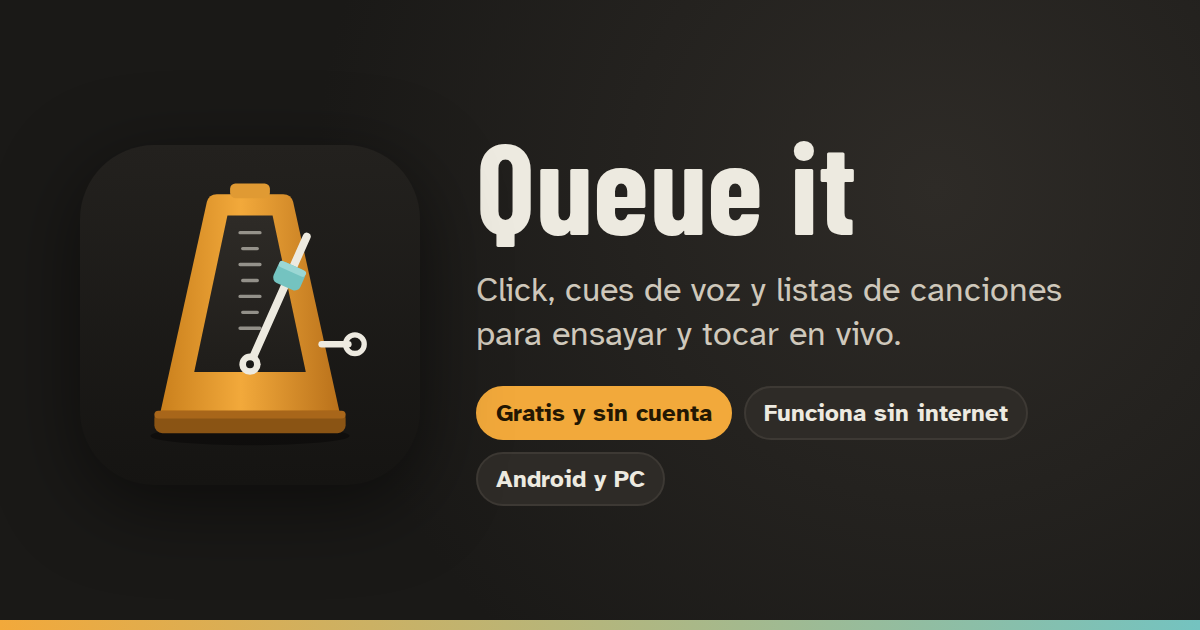
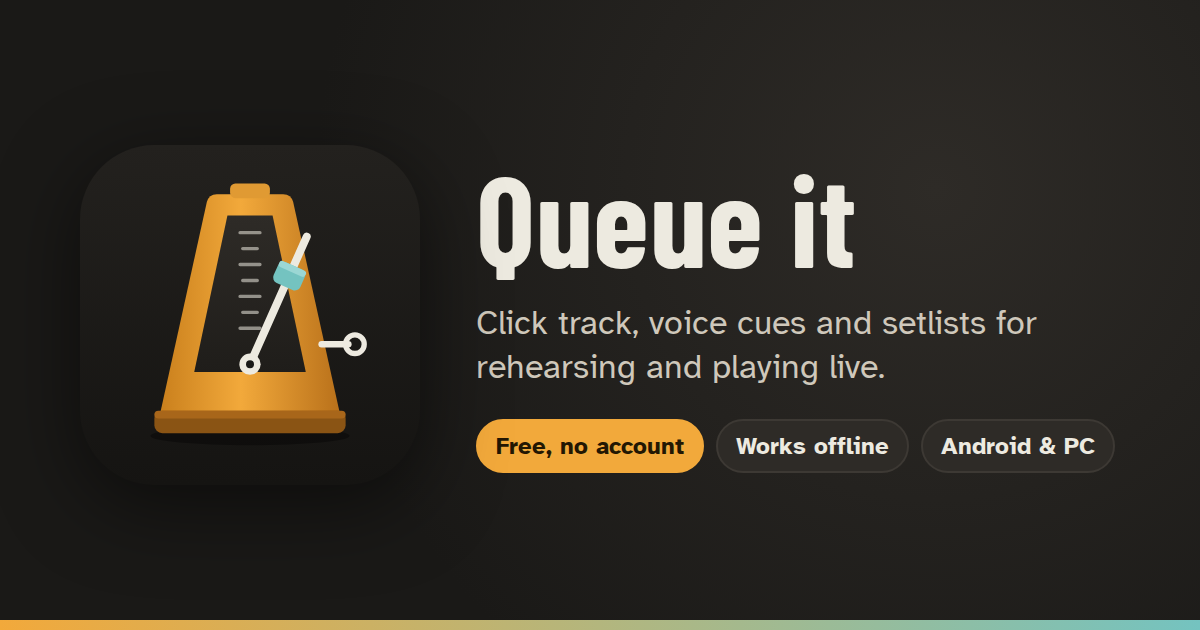
Inglés como idioma por defecto y vista previa en inglés
- La interfaz arranca en inglés salvo que el usuario haya elegido otro
  idioma (EN primero en el selector). Las pistas nuevas usan la voz del
  idioma de la interfaz.
- Etiquetas Open Graph/Twitter, imagen de vista previa, descripción,
  lang del HTML y manifiesto en inglés.

Claude-Session: https://claude.ai/code/session_01Whv9p1jsq9St3YmwNRCosG

Changed region(s): [[0.37, 0.2111, 0.925, 0.8143]]

diff --git a/index.html b/index.html
@@ -1,30 +1,32 @@
 <!doctype html>
-<html lang="es">
+<html lang="en">
   <head>
     <meta charset="UTF-8" />
     <meta name="viewport" content="width=device-width, initial-scale=1, viewport-fit=cover, interactive-widget=resizes-content" />
     <meta name="theme-color" content="#1a1917" />
     <meta name="color-scheme" content="dark" />
-    <meta name="description" content="Guías de click y cues de voz para músicos. Funciona sin internet." />
+    <meta name="description" content="Click track, voice cues and setlists for musicians. Works offline." />
     <link rel="icon" type="image/svg+xml" href="/favicon.svg" />
     <link rel="apple-touch-icon" href="/icons/icon-192.png" />
-    <title>Queue it · Click y cues de voz para músicos</title>
+    <title>Queue it · Click track and voice cues for musicians</title>
 
     <!-- Vista previa al compartir el link (WhatsApp, Discord, Telegram, X…).
          Las URL deben ser absolutas: si la página cambia de dirección, actualízalas. -->
     <meta property="og:type" content="website" />
     <meta property="og:site_name" content="Queue it" />
-    <meta property="og:title" content="Queue it · Click y cues de voz para músicos" />
-    <meta property="og:description" content="Click, cues de voz y listas de canciones para ensayar y tocar en vivo. Gratis, sin cuenta y sin internet." />
+    <meta property="og:title" content="Queue it · Click track and voice cues for musicians" />
+    <meta property="og:description" content="Click track, voice cues and setlists for rehearsing and playing live. Free, no account, works offline." />
     <meta property="og:url" content="https://martinhargous.github.io/Queue_it/" />
     <meta property="og:image" content="https://martinhargous.github.io/Queue_it/og-image.png" />
     <meta property="og:image:width" content="1200" />
     <meta property="og:image:height" content="630" />
-    <meta property="og:image:alt" content="Logo de Queue it, un metrónomo, junto al nombre de la app" />
-    <meta property="og:locale" content="es_LA" />
+    <meta property="og:image:alt" content="Queue it logo, a metronome, next to the app name" />
+    <meta property="og:locale" content="en_US" />
+    <meta property="og:locale:alternate" content="es_LA" />
+    <meta property="og:locale:alternate" content="pt_BR" />
     <meta name="twitter:card" content="summary_large_image" />
-    <meta name="twitter:title" content="Queue it · Click y cues de voz para músicos" />
-    <meta name="twitter:description" content="Click, cues de voz y listas de canciones para ensayar y tocar en vivo." />
+    <meta name="twitter:title" content="Queue it · Click track and voice cues for musicians" />
+    <meta name="twitter:description" content="Click track, voice cues and setlists for rehearsing and playing live." />
     <meta name="twitter:image" content="https://martinhargous.github.io/Queue_it/og-image.png" />
   </head>
   <body>

diff --git a/src/lib/model.js b/src/lib/model.js
@@ -1,6 +1,6 @@
 // Modelo de datos y cálculo de la línea de tiempo.
 // Todo aquí es puro (sin DOM ni Web Audio) para poder probarlo en Node.
-import { t } from './i18n.js'
+import { t, getLang } from './i18n.js'
 
 export const uid = () =>
   (globalThis.crypto?.randomUUID?.() ?? Math.random().toString(36).slice(2) + Date.now().toString(36))
@@ -19,6 +19,9 @@ export function newSection(prev, index = 0) {
   }
 }
 
+// Voz de las pistas nuevas según el idioma de la interfaz
+const DEFAULT_VOICE = { en: 'en/en-us', es: 'es-la', pt: 'pt' }
+
 export function newProject(kind) {
   const now = Date.now()
   return {
@@ -33,7 +36,7 @@ export function newProject(kind) {
     grid: null, // { mode: 'detected'|'fixed', bpm, offset, num, beats: number[], downbeat, nudge }
     cues: [],
     mix: { click: 0.8, track: 1, cues: 1, clickOnAudio: false },
-    tts: { voice: 'es-la', speed: 160, pitch: 45 },
+    tts: { voice: DEFAULT_VOICE[getLang()] ?? 'en/en-us', speed: 160, pitch: 45 },
   }
 }
 

diff --git a/src/lib/i18n.js b/src/lib/i18n.js
@@ -5,13 +5,16 @@ import en from './i18n/en.js'
 import pt from './i18n/pt.js'
 
 export const LANGS = [
-  ['es', 'Español'],
   ['en', 'English'],
+  ['es', 'Español'],
   ['pt', 'Português'],
 ]
 
 const DICTS = { es: {}, en, pt }
 const KEY = 'queueit.lang'
+
+// Inglés por defecto; se recuerda el idioma que elija el usuario en el selector
+export const DEFAULT_LANG = 'en'
 
 function initial() {
   try {
@@ -20,8 +23,7 @@ function initial() {
   } catch {
     /* sin almacenamiento */
   }
-  const nav = globalThis.navigator?.language?.slice(0, 2)
-  return DICTS[nav] ? nav : 'es'
+  return DEFAULT_LANG
 }
 
 let lang = initial()

diff --git a/vite.config.js b/vite.config.js
@@ -25,8 +25,8 @@ export default defineConfig({
       manifest: {
         name: 'Queue it',
         short_name: 'Queue it',
-        description: 'Guías de click y cues de voz para músicos. Funciona sin internet.',
-        lang: 'es',
+        description: 'Click track, voice cues and setlists for musicians. Works offline.',
+        lang: 'en',
         id: './',
         start_url: './',
         scope: './',

diff --git a/ARCHITECTURE.md b/ARCHITECTURE.md
@@ -190,7 +190,7 @@ A diferencia de Moises, no usa redes neuronales de separación de fuentes: con m
 
 ## Idioma de la interfaz
 
-Selector ES / EN / PT en la pantalla de inicio. Por defecto usa el idioma del teléfono y la elección se guarda en `localStorage`. `t('texto en español', vars)` busca la traducción y, si falta, muestra el español. Los componentes llaman `useLang()` para redibujarse al cambiar de idioma.
+Selector EN / ES / PT en la pantalla de inicio. El idioma por defecto es inglés (`DEFAULT_LANG`) y la elección se guarda en `localStorage`. Las pistas nuevas usan la voz del idioma de la interfaz (inglés EE. UU., español latinoamericano o portugués de Brasil). `t('texto en español', vars)` busca la traducción y, si falta, muestra el español. Los componentes llaman `useLang()` para redibujarse al cambiar de idioma.
 
 ## Persistencia
 
@@ -219,7 +219,7 @@ El archivo se genera primero y después el usuario toca **Compartir** (menú nat
 
 `vite-plugin-pwa` genera `sw.js` con Workbox. La lista de precache incluye todo el JS (el worker de voz pesa unos 1,7 MB), CSS, fuentes e íconos; el límite por archivo se subió a 12 MB. `base: './'` hace que funcione tanto en la raíz como bajo `/Queue_it/` en GitHub Pages. `registerType: 'autoUpdate'` actualiza la app en segundo plano cuando hay una versión nueva publicada.
 
-**Vista previa al compartir.** `index.html` tiene etiquetas Open Graph y de Twitter con título, descripción e imagen (`public/og-image.png`, 1200×630). WhatsApp, Discord y Telegram las muestran al pegar el link. Las URL son absolutas y apuntan a `https://martinhargous.github.io/Queue_it/`; si la página cambia de dirección hay que actualizarlas. La imagen no se precachea.
+**Vista previa al compartir.** `index.html` tiene etiquetas Open Graph y de Twitter en inglés con título, descripción e imagen (`public/og-image.png`, 1200×630). WhatsApp, Discord y Telegram las muestran al pegar el link. Las URL son absolutas y apuntan a `https://martinhargous.github.io/Queue_it/`; si la página cambia de dirección hay que actualizarlas. La imagen no se precachea.
 
 **Botón de instalación.** Chrome no siempre muestra su aviso de instalación por su cuenta. `install.js` guarda el evento `beforeinstallprompt` y la pantalla de inicio muestra un aviso con el botón **Instalar** (o un ícono de descarga si el aviso se cerró). En iPhone/iPad, donde ese evento no existe, el aviso explica cómo agregarla desde Safari. No aparece si la app ya está instalada.
 
